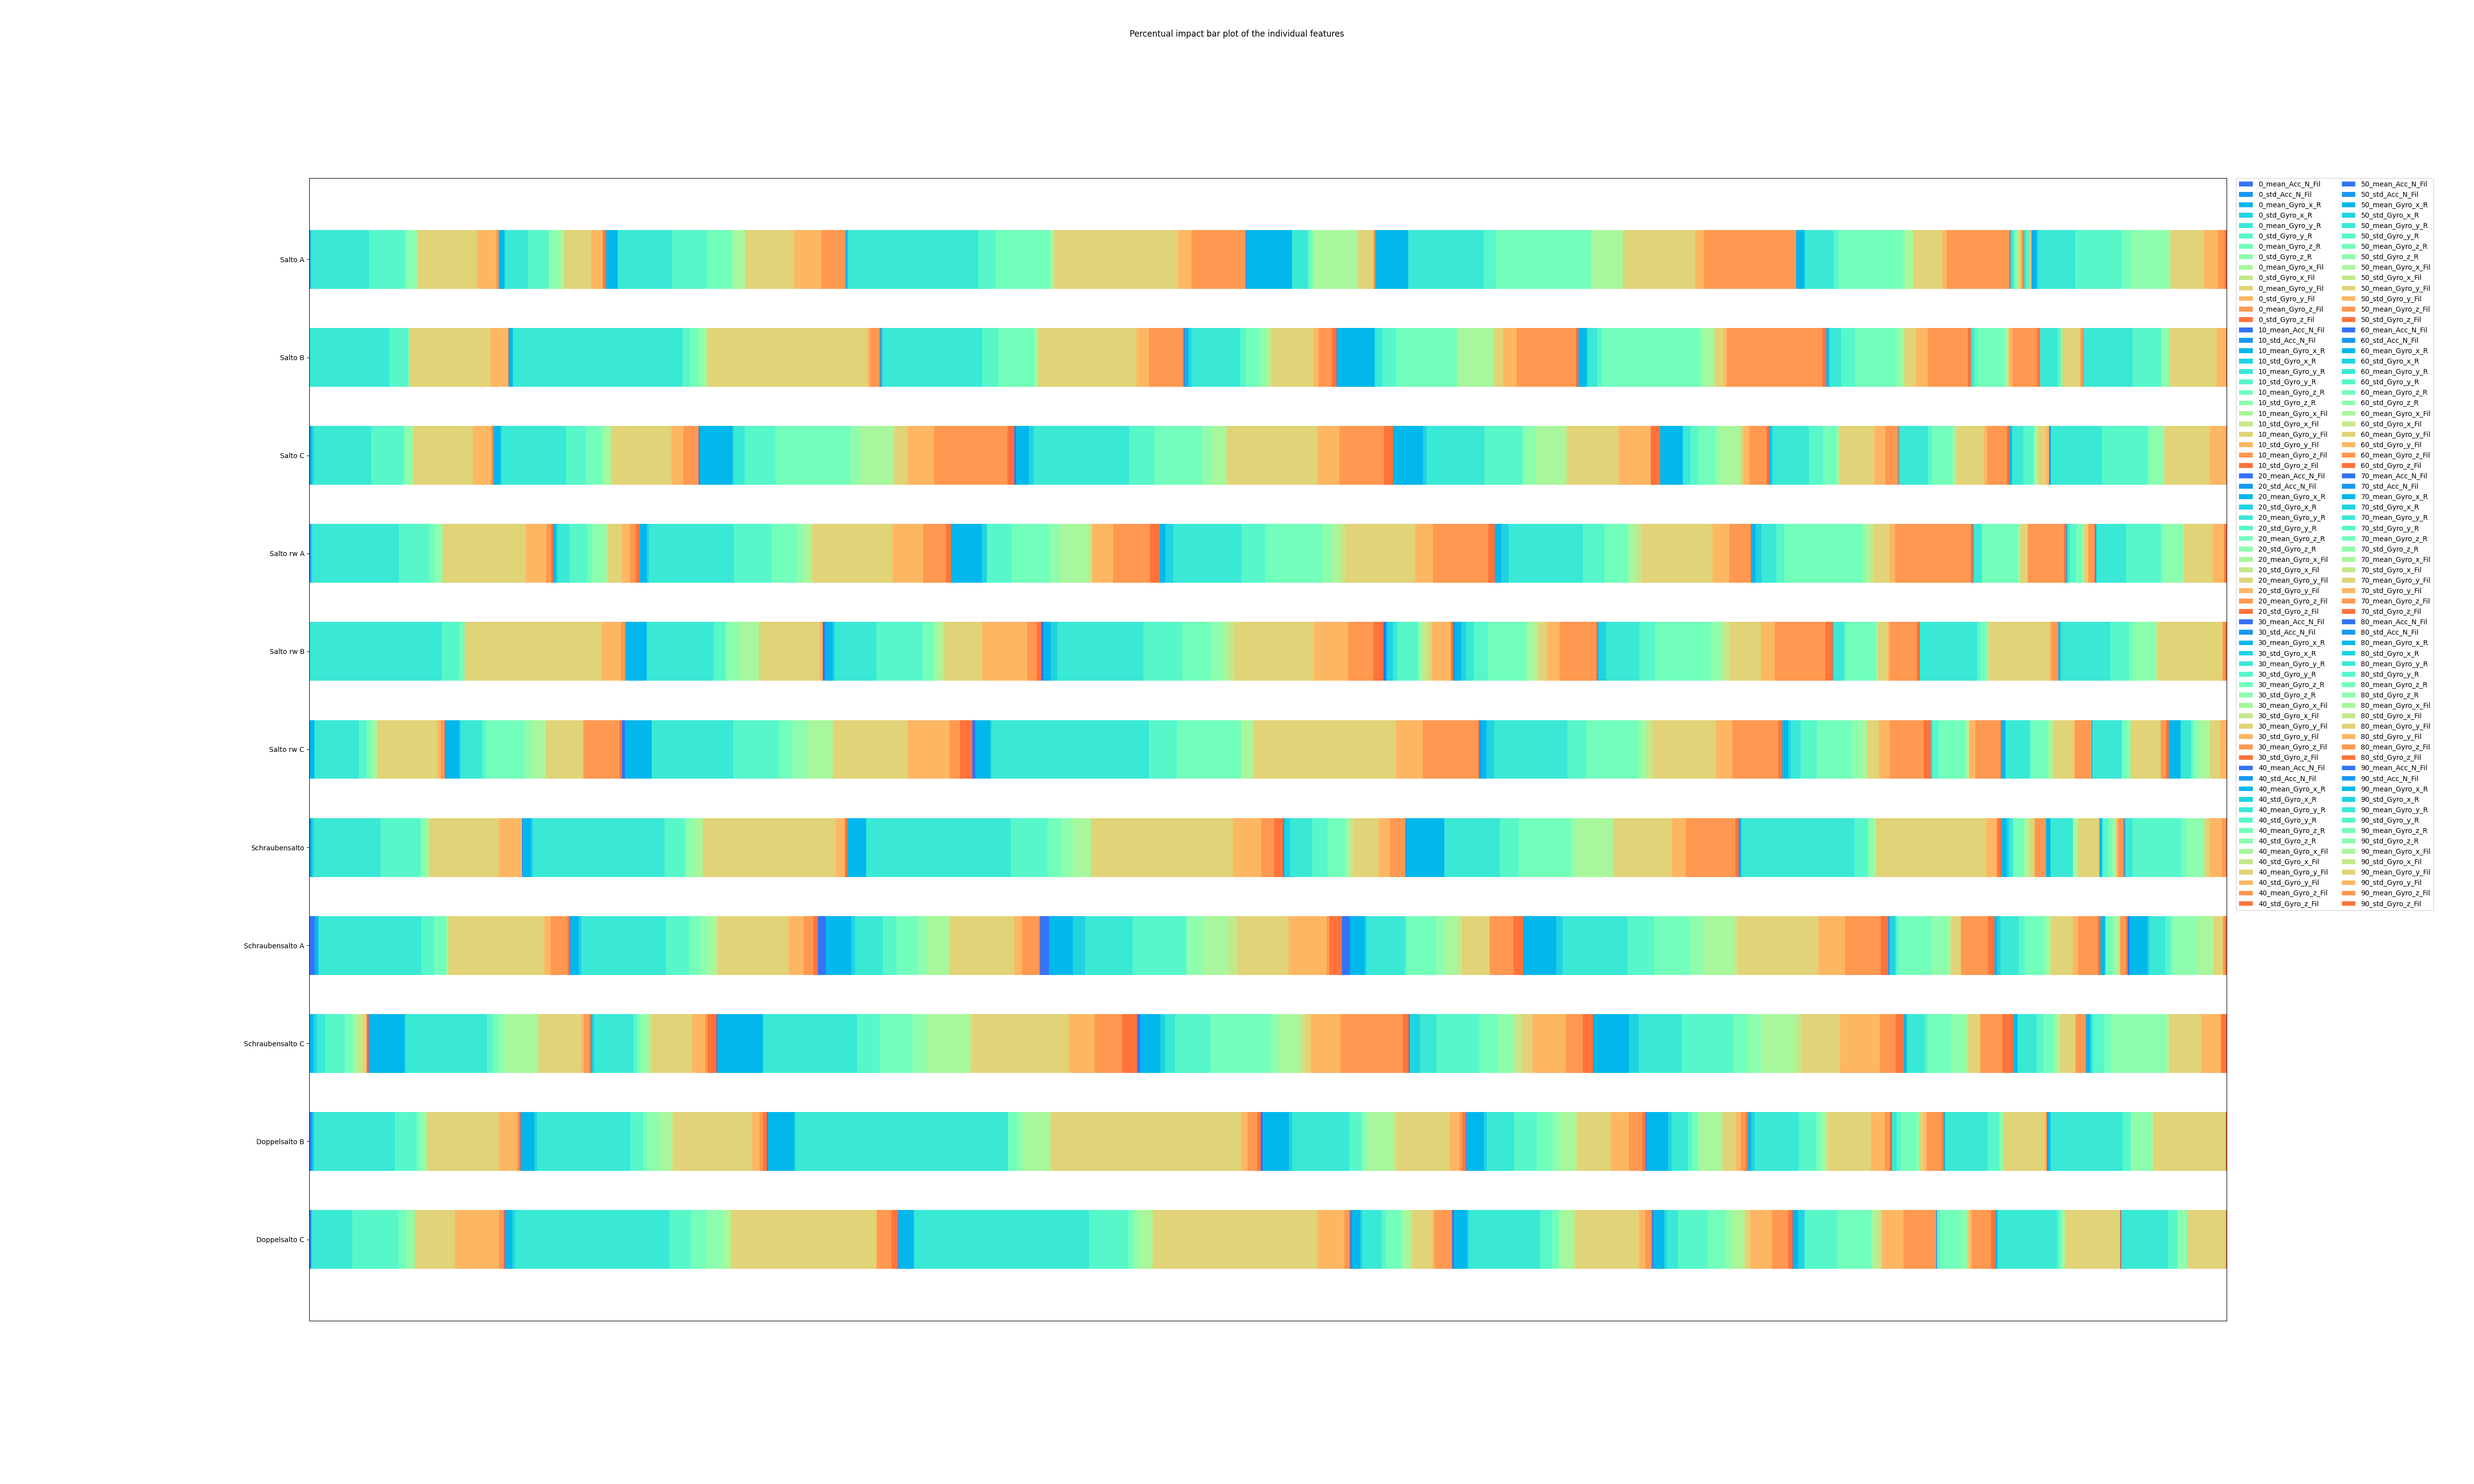
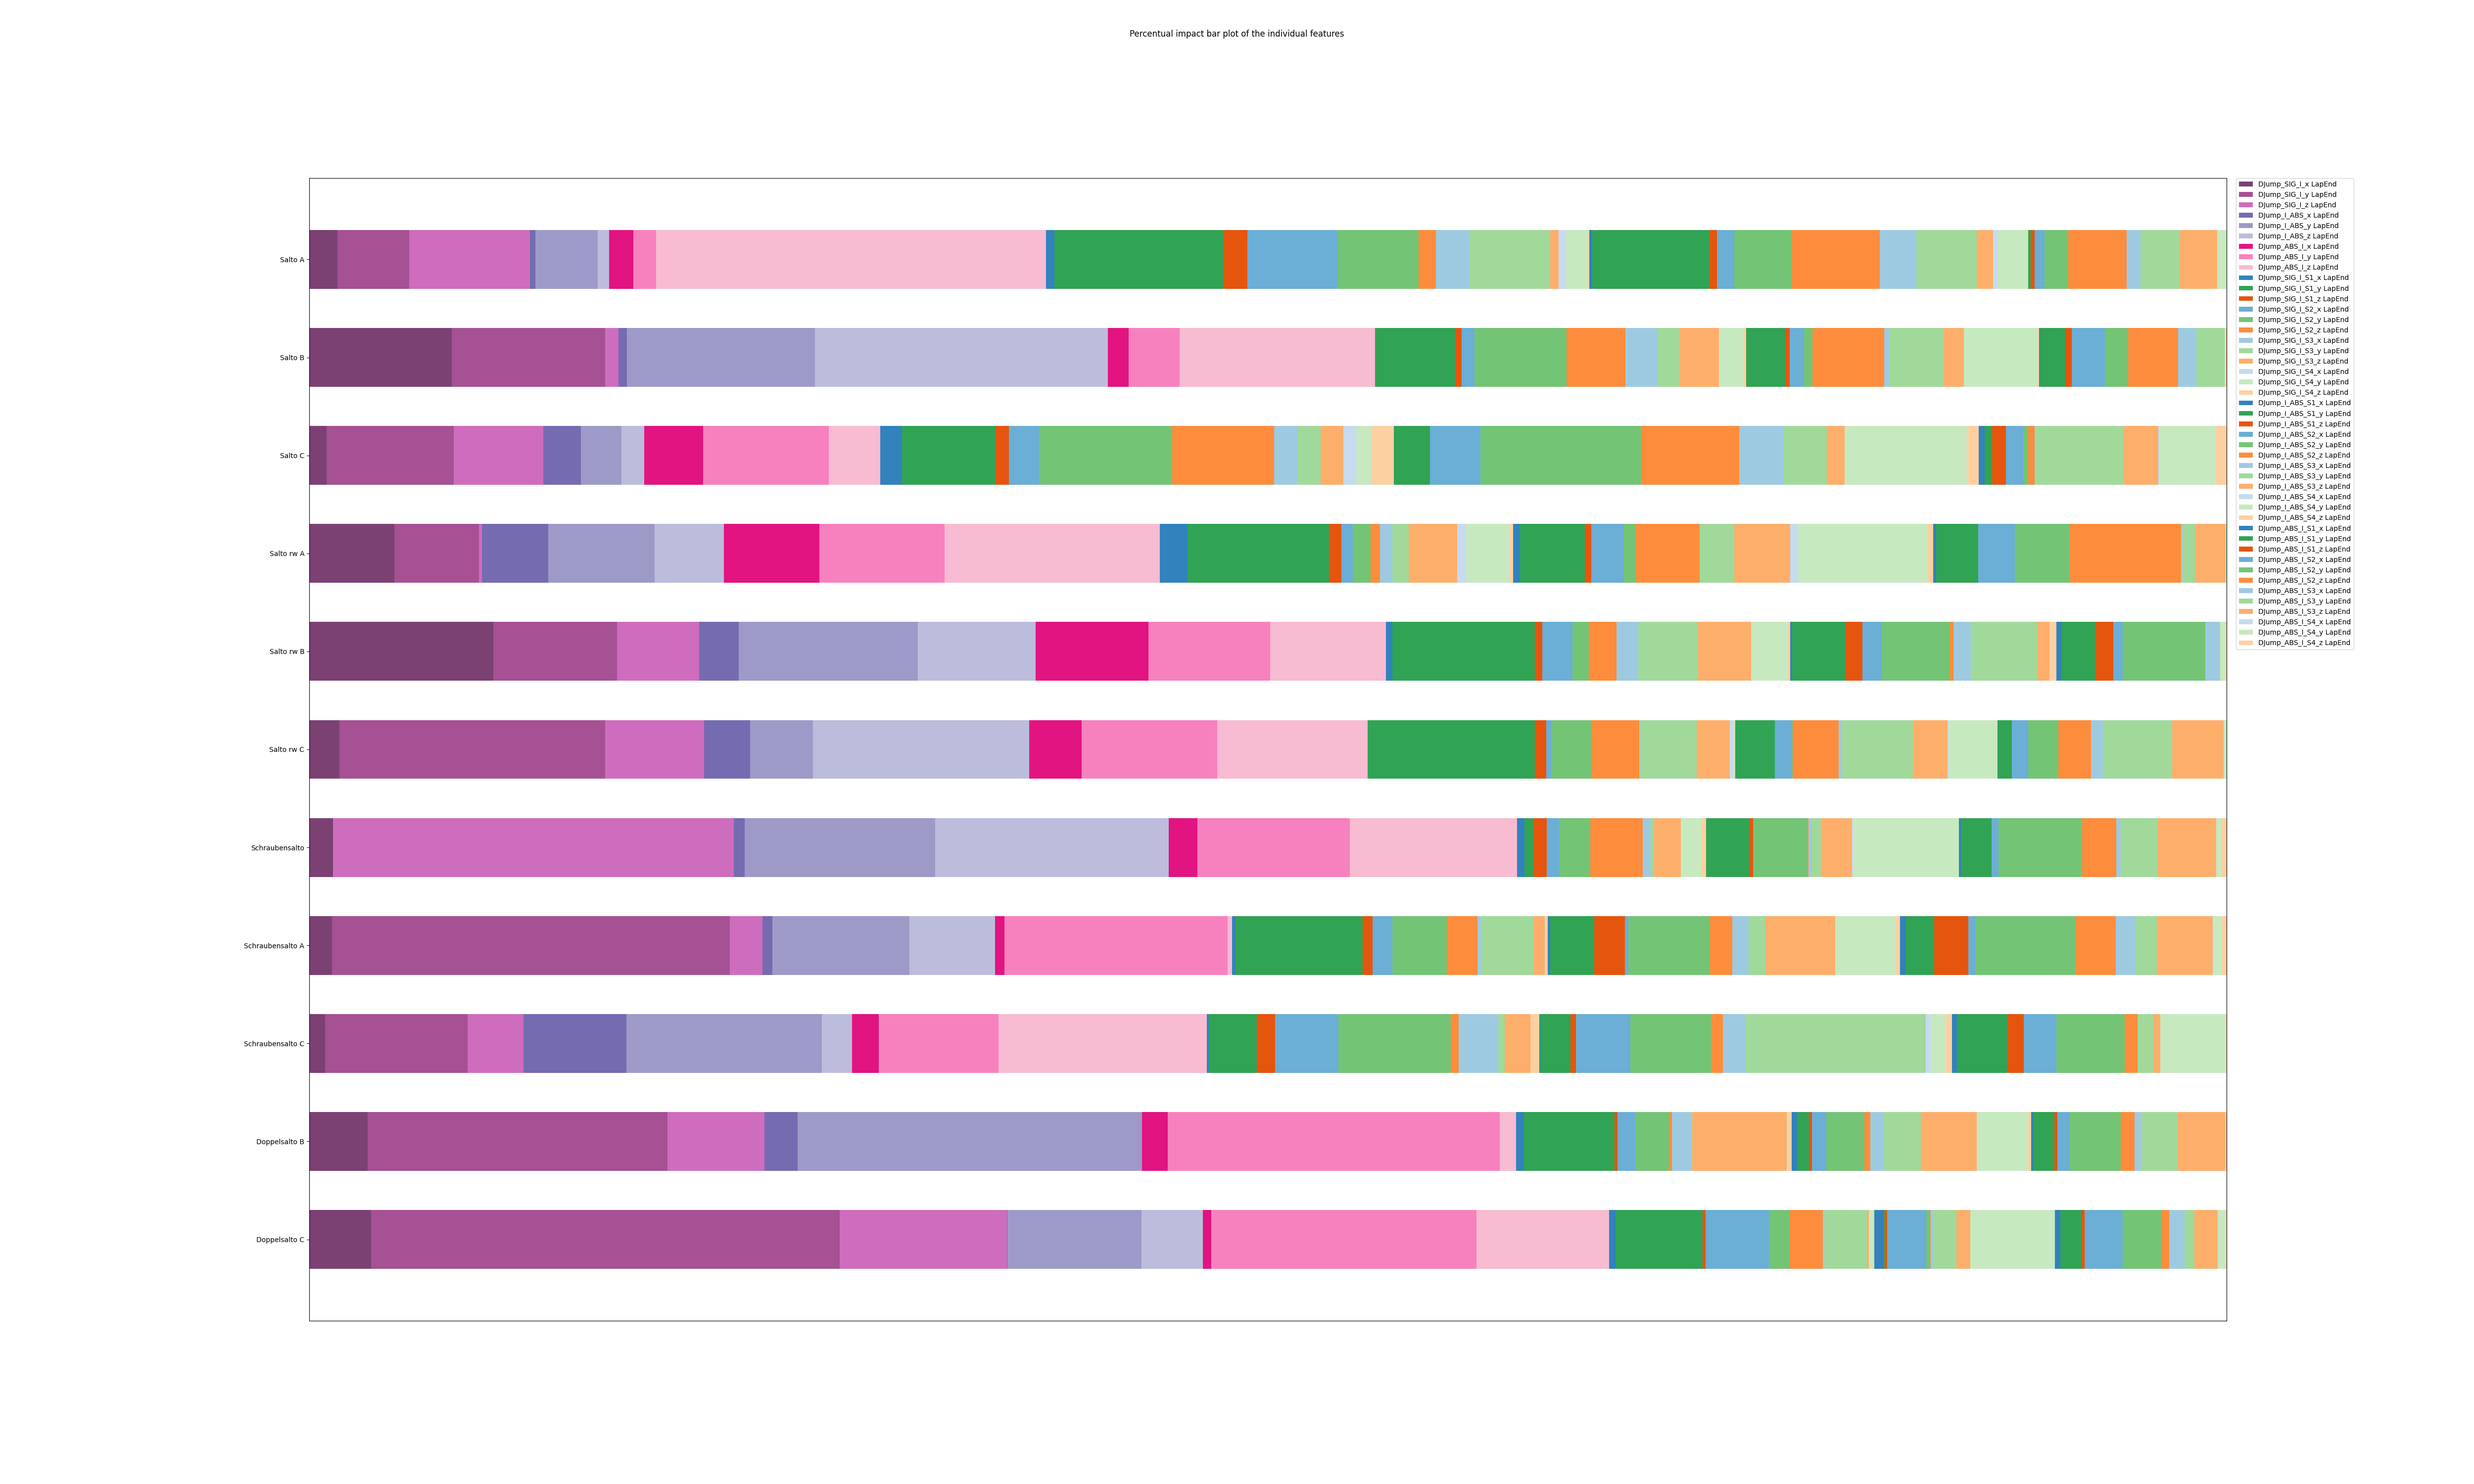
sgd only preprocessed with right data set

diff --git a/sgd/sgd_best_accuracy.py b/sgd/sgd_best_accuracy.py
@@ -45,8 +45,8 @@ if __name__ == '__main__':
         '../Sprungdaten_processed/without_preprocessed/percentage/10/vector_percentage_mean_std_10_test.csv')'''
 
     # get_features (X)
-    start_column: str = '0_mean_Acc_N_Fil'
-    end_column: str = '90_std_Gyro_z_Fil'
+    start_column: str = 'DJump_SIG_I_x LapEnd'
+    end_column: str = 'DJump_ABS_I_S4_z LapEnd'
 
     '''start_column: str = list(train_data.columns)[2]
     end_column: str = list(train_data.columns)[-1]'''
@@ -104,11 +104,11 @@ if __name__ == '__main__':
               name='only_with_preprocessed')'''
 
     saltoA = np.where(shap_y_test.unique() == 'Salto A')[0][0]
-    shap.summary_plot(shap_values[saltoA], shap_x_test, plot_size=(20, 12), title='Salto A')
+    shap.summary_plot(shap_values[saltoA], shap_x_test, plot_size=(30, 12), title='Salto A')
     saltoB = np.where(shap_y_test.unique() == 'Salto B')[0][0]
     shap.summary_plot(shap_values[saltoB], shap_x_test, plot_size=(30, 12), title='Salto B')
     saltoC = np.where(shap_y_test.unique() == 'Salto C')[0][0]
-    shap.summary_plot(shap_values[saltoC], shap_x_test, plot_size=(20, 12), title='Salto C')
+    shap.summary_plot(shap_values[saltoC], shap_x_test, plot_size=(30, 12), title='Salto C')
 
     '''cm = confusion_matrix(y_test, y_pred, labels=clf.classes_)
     disp = ConfusionMatrixDisplay(confusion_matrix=cm, display_labels=clf.classes_)
